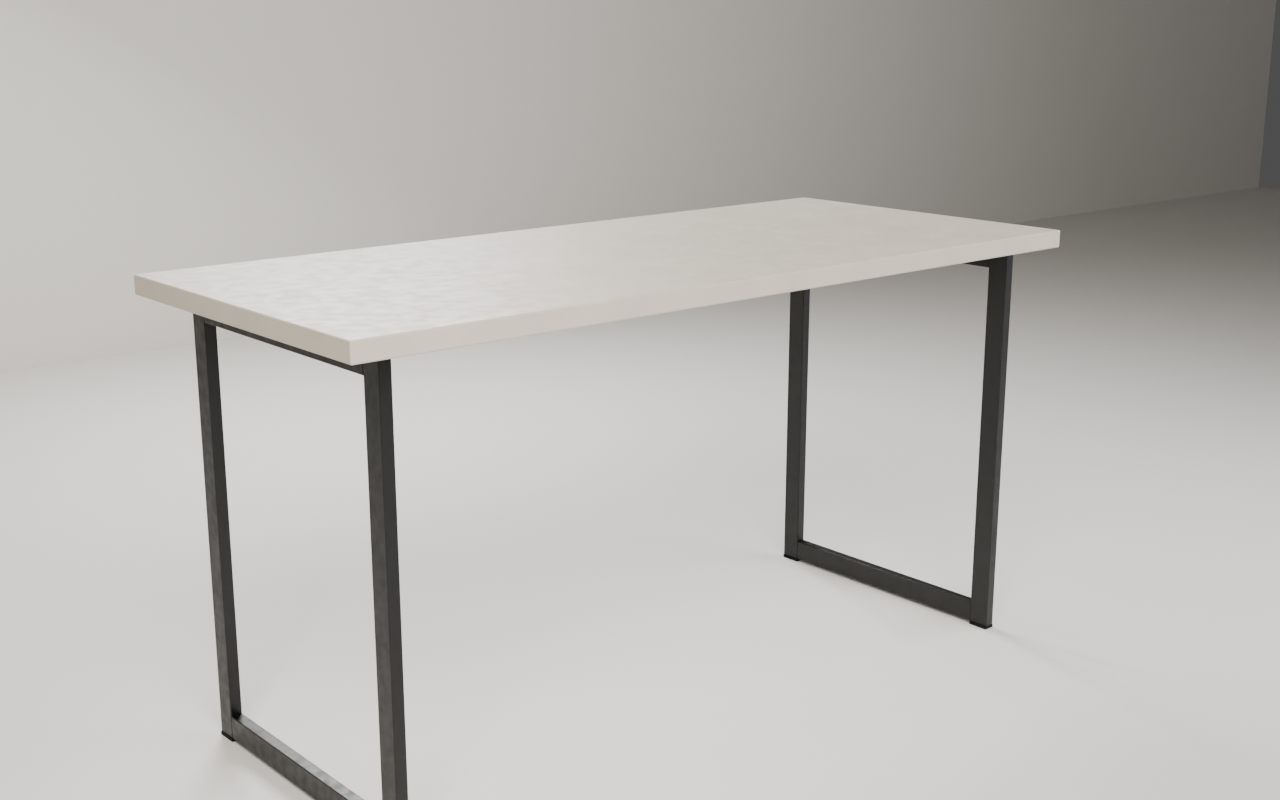
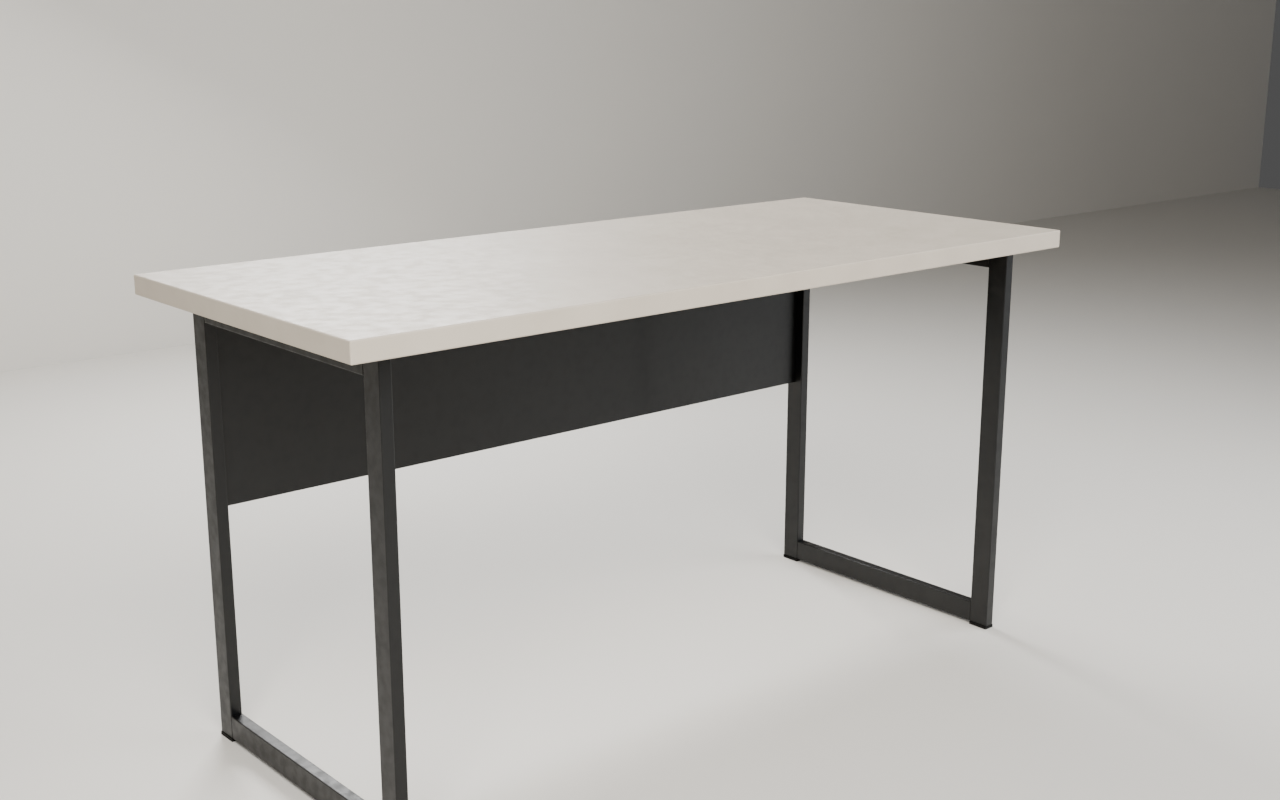
Brace the loft table with a rear steel panel instead of a stretcher
Per the maker's sketch, rigidity comes from a 3 mm sheet welded between
the rear legs of the two side frames, running from 400 mm above the
floor up to the underside of the top. The centre tube stretcher is
gone; the cut list now includes the sheet size and the fourth camera
looks at the table from behind instead of from above.

Claude-Session: https://claude.ai/code/session_01XgnHMEkaUqiEFMRrGJgGzi

Changed region(s): [[0.1562, 0.3438, 0.625, 0.625]]

diff --git a/tools/blender/table_loft.py b/tools/blender/table_loft.py
@@ -4,8 +4,9 @@
          python tools/blender/table_loft.py [ключи]       (при установленном bpy)
 Ключи:   --render, --glb, --samples N, --res W H, --cameras a,b,c, --no-save
 
-Подстолье — две замкнутые боковые рамы («O») и царга между ними под столешницей.
-Скрипт печатает карту раскроя: размеры столешницы и длины всех отрезков трубы.
+Подстолье — две замкнутые боковые рамы («O») и стальная перегородка сзади между ними,
+от 400 мм над полом до столешницы. Скрипт печатает карту раскроя: размеры столешницы,
+длины всех отрезков трубы и размер листа.
 """
 import math
 import os
@@ -30,6 +31,8 @@ FRAME_INSET = 0.070           # отступ рамы от торца столе
 FRAME_DEPTH = 0.550           # рама по глубине (наружный размер)
 FRAME_H = HEIGHT - TOP_T      # рама упирается в столешницу
 PAD_H = 0.006                 # подпятники
+PANEL_Z0 = 0.400              # задняя перегородка: нижняя кромка от пола
+PANEL_T = 0.003               # стальной лист
 
 PALETTE = {
     "cashmere": "#CBC1B2",    # ЛДСП «кашемир серый»
@@ -146,11 +149,14 @@ def build_table(mats, colls):
             box("Подпятник", (x0 - 0.001, ya, 0.0), (x1 + 0.001, yb, PAD_H), mats["rubber"], frame,
                 bevel=0.0)
 
-    # царга: труба на ребро (20 в ширину, 40 в высоту) по оси стола под столешницей
+    # задняя перегородка: стальной лист между задними стойками, вварен в плоскости рамы,
+    # от PANEL_Z0 до столешницы — связывает рамы и не даёт столу «играть»
     sx0, sx1 = x_centers[0] + TUBE_T / 2, x_centers[1] - TUBE_T / 2
-    box("Царга", (sx0, -TUBE_T / 2, FRAME_H - TUBE_W), (sx1, TUBE_T / 2, FRAME_H), mats["powder"],
-        frame, bevel=0.0015)
-    cut["труба 40×20"].append(("царга", sx1 - sx0))
+    py = y_out - TUBE_W / 2
+    box("Перегородка", (sx0, py - PANEL_T / 2, PANEL_Z0), (sx1, py + PANEL_T / 2, FRAME_H),
+        mats["powder"], frame, bevel=0.0008)
+    cut["лист 3 мм"] = [("перегородка %d × %d мм" % ((sx1 - sx0) * 1000, (FRAME_H - PANEL_Z0) * 1000),
+                         sx1 - sx0)]
 
     # пластины крепления к столешнице — видны снизу, как в реальном изделии
     for xc in x_centers:
@@ -197,7 +203,7 @@ def build_cameras(colls):
         "hero": ((-1.75, -2.05, 1.20), (0.05, 0.05, 0.50), 45),
         "side": ((2.55, -0.25, 0.75), (0.0, 0.0, 0.46), 50),
         "detail": ((-1.35, -1.25, 1.05), (-0.50, -0.15, 0.70), 55),
-        "top": ((0.0, -0.9, 2.45), (0.0, 0.0, 0.78), 35),
+        "back": ((1.75, 2.05, 1.05), (-0.05, 0.0, 0.48), 45),
     }
     cams = {}
     for name, (loc, target, lens) in specs.items():
@@ -269,7 +275,7 @@ def print_cut_list(cut):
     print("\nКарта раскроя")
     print("  столешница ЛДСП %d мм: %d × %d мм, кромка ABS 2 мм по периметру"
           % (TOP_T * 1000, LENGTH * 1000, DEPTH * 1000))
-    for tube, items in cut.items():
+    for stock, items in cut.items():
         total = 0.0
         counts = {}
         for name, length in items:
@@ -277,8 +283,9 @@ def print_cut_list(cut):
             counts[key] = counts.get(key, 0) + 1
             total += length
         for (name, mm), n in sorted(counts.items(), key=lambda kv: -kv[0][1]):
-            print("  %s: %d шт × %d мм — %s" % (tube, n, mm, name))
-        print("  итого трубы: %.2f м (без учёта реза)" % total)
+            print("  %s: %d шт × %d мм — %s" % (stock, n, mm, name))
+        if stock.startswith("труба"):
+            print("  итого трубы: %.2f м (без учёта реза)" % total)
 
 
 def main():
@@ -288,7 +295,7 @@ def main():
     do_save = "--no-save" not in argv
     samples = 64
     res = (1280, 800)
-    names = ["hero", "side", "detail", "top"]
+    names = ["hero", "side", "detail", "back"]
     if "--samples" in argv:
         samples = int(argv[argv.index("--samples") + 1])
     if "--res" in argv:

diff --git a/README.md b/README.md
@@ -217,13 +217,14 @@ blender --background --python tools/blender/kitchen_royal.py -- --render --glb
 tools/blender/table_loft.py     # генератор
 assets/3d/table-loft.blend      # файл для Blender
 assets/3d/table-loft.glb        # для просмотра без Blender
-assets/3d/renders/table-*.png   # четыре ракурса: общий, сбоку, деталь, сверху
+assets/3d/renders/table-*.png   # четыре ракурса: общий, сбоку, деталь, сзади
 ```
 
-Столешница ЛДСП 32 мм «кашемир» с кромкой ABS, подстолье — две замкнутые рамы и царга
-из трубы 40×20 в чёрной порошковой краске. Скрипт печатает карту раскроя (длины всех
-отрезков трубы). Размеры — в начале файла: `LENGTH`, `DEPTH`, `HEIGHT`, `TOP_T`,
-`TUBE_W`, `TUBE_T`, `FRAME_INSET`, `FRAME_DEPTH`.
+Столешница ЛДСП 32 мм «кашемир» с кромкой ABS, подстолье — две замкнутые рамы из трубы
+40×20 и стальная перегородка сзади между ними (от 400 мм над полом до столешницы),
+всё в чёрной порошковой краске. Скрипт печатает карту раскроя (длины всех отрезков
+трубы и размер листа). Размеры — в начале файла: `LENGTH`, `DEPTH`, `HEIGHT`, `TOP_T`,
+`TUBE_W`, `TUBE_T`, `FRAME_INSET`, `FRAME_DEPTH`, `PANEL_Z0`.
 
 ```bash
 blender --background --python tools/blender/table_loft.py -- --render --glb
